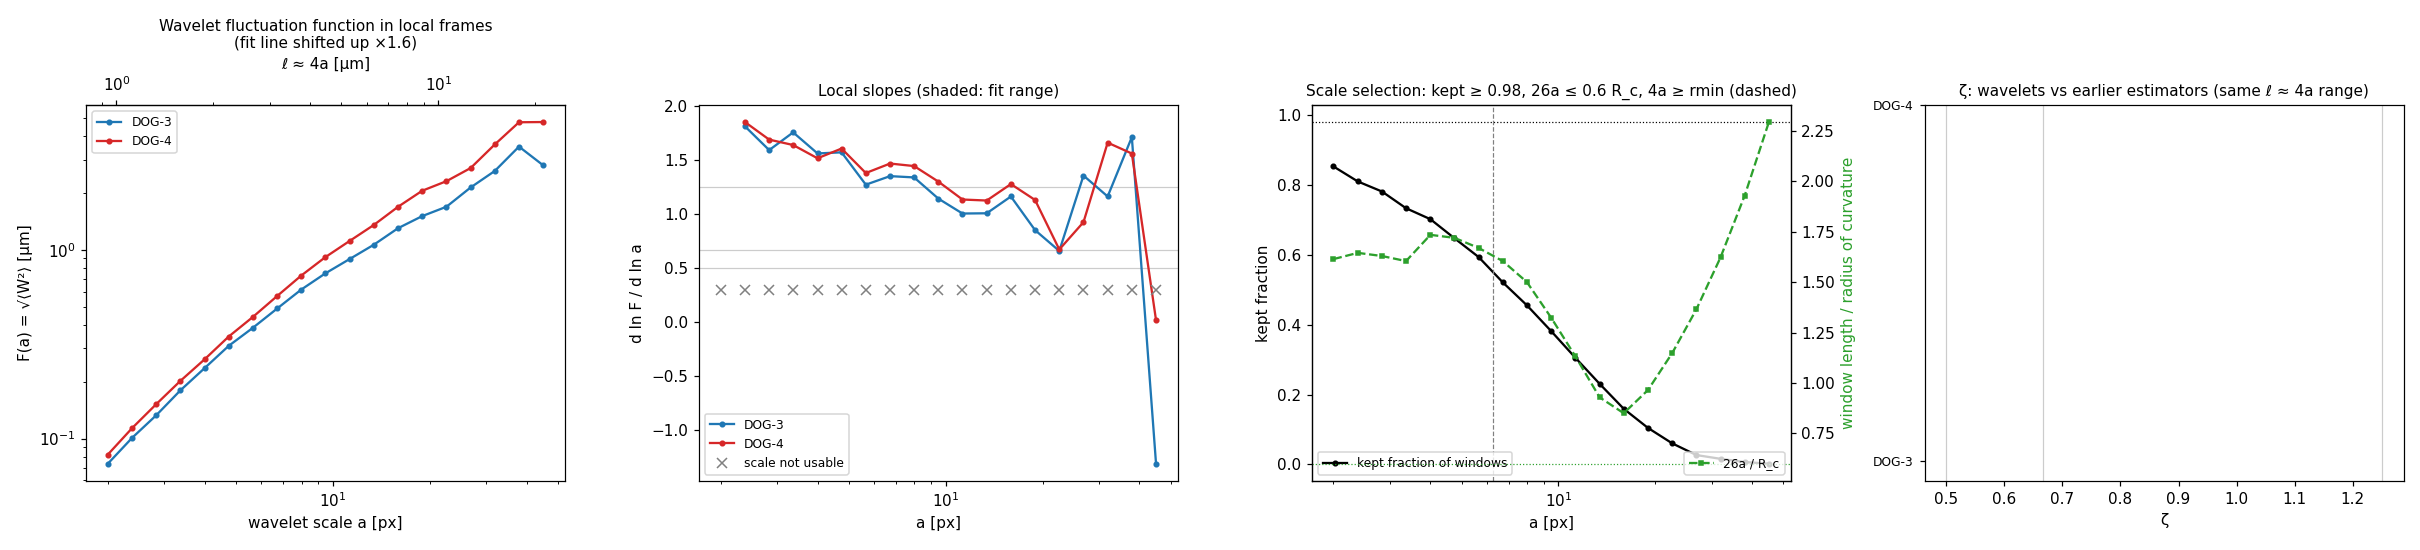
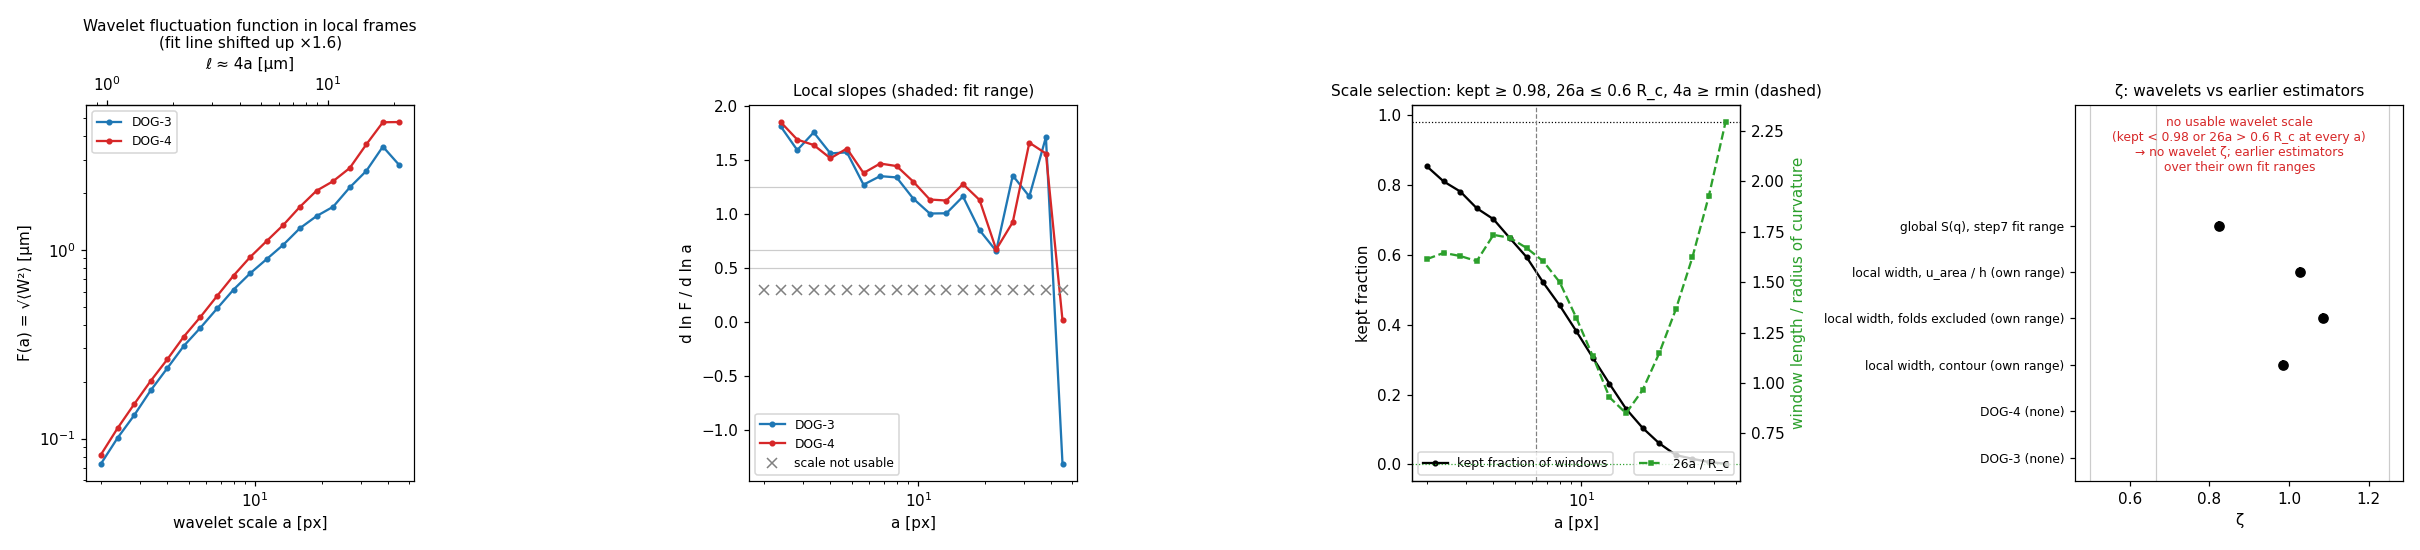
step9: comparison panel also when no wavelet scale is usable
Claude-Session: https://claude.ai/code/session_01AAEqMPogvcjhkUnN5Zourk

diff --git a/step9_wavelet.py b/step9_wavelet.py
@@ -298,9 +298,18 @@ if rr is not None:
     if ok.sum() >= 3:
         cmp["global S(q), same scales"] = -(np.polyfit(np.log(q[ok]), np.log(S[ok]), 1)[0] + 1) / 2
     cmp["global S(q), step7 fit range"] = float(rg[f"{pre}_zS"])
-    if os.path.exists(os.path.join(d, "crossover.npz")):
-        cr = np.load(os.path.join(d, "crossover.npz"), allow_pickle=True)
-        cmp["l0 (step8, a / b / c) [µm]"] = tuple(float(cr[f"l0_{e}"]) for e in "abc" if f"l0_{e}" in cr.files)
+else:
+    # no usable wavelet range: show the earlier estimators over their own fit ranges
+    rg = np.load(os.path.join(d, "roughness.npz"))
+    pre = "area" if "area_q" in rg.files else "h"
+    for key, lab in (("zeta_pca", "local width, contour (own range)"), ("zeta_unfolded", "local width, folds excluded (own range)"),
+                     ("zeta_ctrl", "local width, u_area / h (own range)")):
+        if key in lw.files:
+            cmp[lab] = float(lw[key])
+    cmp["global S(q), step7 fit range"] = float(rg[f"{pre}_zS"])
+if os.path.exists(os.path.join(d, "crossover.npz")):
+    cr = np.load(os.path.join(d, "crossover.npz"), allow_pickle=True)
+    cmp["l0 (step8, a / b / c) [µm]"] = tuple(float(cr[f"l0_{e}"]) for e in "abc" if f"l0_{e}" in cr.files)
 
 print(f"   {'a[px]':>6s} {'l~4a':>8s} {'kept':>6s} {'26a/Rc':>7s} {'usable':>6s} {'F DOG-3':>10s} {'F DOG-4':>10s} "
       f"{'slope3':>7s} {'slope4':>7s}")
@@ -366,13 +375,19 @@ ax[2].axvline(rmin / 4, color="0.5", ls="--", lw=0.8)
 ax[2].set_xlabel("a [px]"); ax[2].set_ylabel("kept fraction")
 ax[2].set_title(f"Scale selection: kept ≥ {args.min_kept:g}, 26a ≤ {args.curv_ratio:g} R_c, 4a ≥ rmin (dashed)", fontsize=10)
 ax[2].legend(loc="lower left", fontsize=8); ax2.legend(loc="lower right", fontsize=8)
-labs = [f"DOG-{m}" for m in MS] + [k_ for k_, v in cmp.items() if not isinstance(v, tuple)]
+labs = [f"DOG-{m}" + ("" if np.isfinite(res[m]["z"]) else " (none)") for m in MS] + [k_ for k_, v in cmp.items() if not isinstance(v, tuple)]
 vals = [res[m]["z"] for m in MS] + [v for v in cmp.values() if not isinstance(v, tuple)]
 errs = [res[m]["dz"] for m in MS] + [0] * (len(vals) - len(MS))
 ax[3].errorbar(vals, range(len(vals)), xerr=errs, fmt="o", color="k", capsize=3)
 ax[3].set_yticks(range(len(vals))); ax[3].set_yticklabels(labs, fontsize=8)
 for zz in (0.5, 2 / 3, 1.25):
     ax[3].axvline(zz, color="0.8", lw=0.8, zorder=0)
-ax[3].set_xlabel("ζ"); ax[3].set_title("ζ: wavelets vs earlier estimators (same ℓ ≈ 4a range)", fontsize=10)
+if rr is None:
+    ax[3].text(0.5, 0.97, "no usable wavelet scale\n(kept < " + f"{args.min_kept:g}" + " or 26a > "
+               + f"{args.curv_ratio:g}" + " R_c at every a)\n→ no wavelet ζ; earlier estimators\nover their own fit ranges",
+               transform=ax[3].transAxes, ha="center", va="top", fontsize=8, color="C3")
+    ax[3].set_ylim(-0.5, len(vals) + 1.6)
+ax[3].set_xlabel("ζ")
+ax[3].set_title("ζ: wavelets vs earlier estimators" + (" (same ℓ ≈ 4a range)" if rr is not None else ""), fontsize=10)
 fig.tight_layout(); fig.savefig(os.path.join(d, "fig_wavelet.png"), dpi=110); plt.close(fig)
 print(f"   outputs: {d}/wavelet.npz, fig_wavelet.png")
